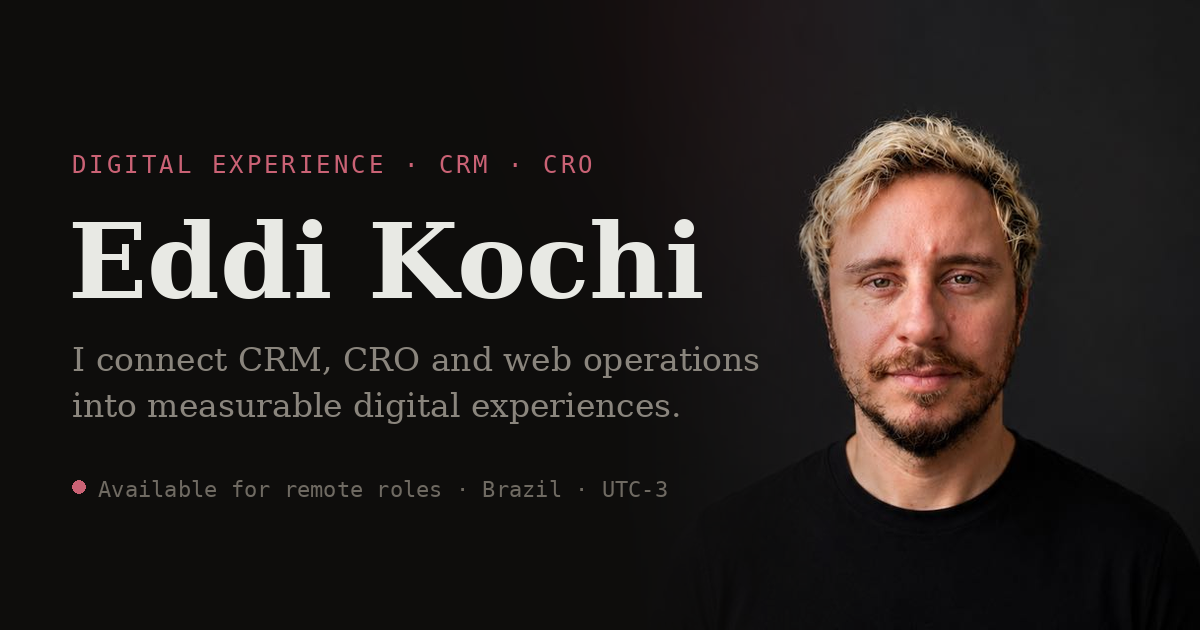
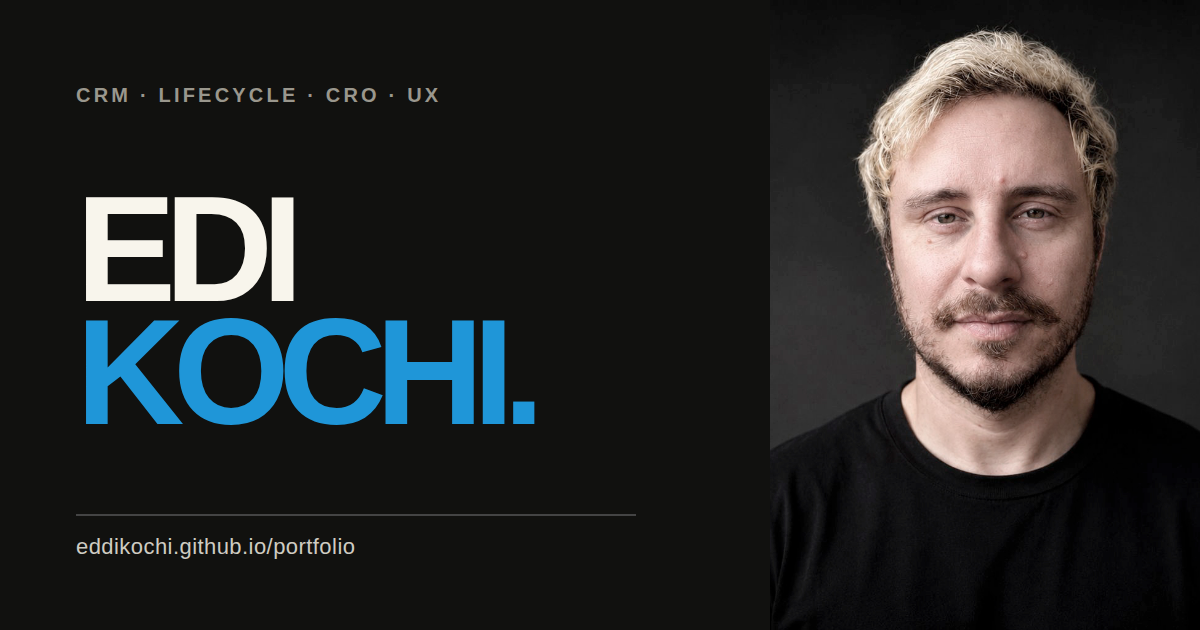
Nome: 'Edi Kochi' (um d) em todo o site e nova og-image no estilo V4
- Cabeçalho, títulos, metadados, rodapé, 404 e redirecionamentos (PT+EN)
- URLs e e-mail (eddikochi / eddimaicon) mantidos
- og-image refeita: fundo escuro, tipografia da V4, sem frase em inglês
- v1/ (snapshot arquivado) não alterado

diff --git a/index.html b/index.html
@@ -1,7 +1,7 @@
 <!doctype html>
 <html lang="pt-BR"><head><meta charset="utf-8"><meta name="viewport" content="width=device-width,initial-scale=1">
-<title>Eddi Kochi — Experiência Digital, CRM &amp; CRO</title>
-<meta name="description" content="CRM, lifecycle e CRO: portfólio de Eddi Kochi com réguas multicanal, testes A/B, conteúdo com IA e experiências digitais orientadas por dados.">
+<title>Edi Kochi — Experiência Digital, CRM &amp; CRO</title>
+<meta name="description" content="CRM, lifecycle e CRO: portfólio de Edi Kochi com réguas multicanal, testes A/B, conteúdo com IA e experiências digitais orientadas por dados.">
 <link rel="icon" href="favicon.svg" type="image/svg+xml">
 <link rel="manifest" href="site.webmanifest">
 <meta name="theme-color" content="#f2f0e8">
@@ -10,17 +10,17 @@
 <link rel="alternate" hreflang="en" href="https://eddikochi.github.io/portfolio/en/">
 <link rel="alternate" hreflang="x-default" href="https://eddikochi.github.io/portfolio/en/">
 <meta property="og:type" content="website">
-<meta property="og:site_name" content="Eddi Kochi">
+<meta property="og:site_name" content="Edi Kochi">
 <meta property="og:locale" content="pt_BR">
-<meta property="og:title" content="Eddi Kochi — Experiência Digital, CRM & CRO">
-<meta property="og:description" content="CRM, lifecycle e CRO: portfólio de Eddi Kochi com réguas multicanal, testes A/B, conteúdo com IA e experiências digitais orientadas por dados.">
+<meta property="og:title" content="Edi Kochi — Experiência Digital, CRM & CRO">
+<meta property="og:description" content="CRM, lifecycle e CRO: portfólio de Edi Kochi com réguas multicanal, testes A/B, conteúdo com IA e experiências digitais orientadas por dados.">
 <meta property="og:url" content="https://eddikochi.github.io/portfolio/">
 <meta property="og:image" content="https://eddikochi.github.io/portfolio/img/og-image.png">
 <meta property="og:image:width" content="1200">
 <meta property="og:image:height" content="630">
 <meta name="twitter:card" content="summary_large_image">
-<meta name="twitter:title" content="Eddi Kochi — Experiência Digital, CRM & CRO">
-<meta name="twitter:description" content="CRM, lifecycle e CRO: portfólio de Eddi Kochi com réguas multicanal, testes A/B, conteúdo com IA e experiências digitais orientadas por dados.">
+<meta name="twitter:title" content="Edi Kochi — Experiência Digital, CRM & CRO">
+<meta name="twitter:description" content="CRM, lifecycle e CRO: portfólio de Edi Kochi com réguas multicanal, testes A/B, conteúdo com IA e experiências digitais orientadas por dados.">
 <meta name="twitter:image" content="https://eddikochi.github.io/portfolio/img/og-image.png">
 <link rel="stylesheet" href="v4.css">
 
@@ -30,7 +30,7 @@
 <header><nav class="w">
   <a class="brand" href="#top">
     <span class="brand-mark" aria-hidden="true"><svg viewBox="0 0 24 24" fill="none"><g stroke="currentColor" stroke-width="1.2" stroke-opacity=".55"><line x1="5" y1="7" x2="12" y2="12"/><line x1="12" y1="12" x2="9" y2="19"/><line x1="12" y1="12" x2="19" y2="9"/><line x1="19" y1="9" x2="18" y2="18"/></g><circle cx="5" cy="7" r="2" fill="currentColor"/><circle cx="12" cy="12" r="2.4" fill="currentColor"/><circle cx="9" cy="19" r="1.8" fill="currentColor" fill-opacity=".82"/><circle cx="19" cy="9" r="2" fill="currentColor" fill-opacity=".82"/><circle cx="18" cy="18" r="1.6" fill="currentColor" fill-opacity=".7"/></svg></span>
-    <span class="brand-text">EDDI KOCHI</span>
+    <span class="brand-text">EDI KOCHI</span>
   </a>
   <div class="links"><a href="#work">Trabalhos</a><a href="#what">Expertise</a><a href="#about">Sobre</a></div>
   <div class="lang" role="group" aria-label="Idioma / Language"><a class="active" href="#top" aria-current="true">PT</a><a href="en/index.html">EN</a></div>
@@ -87,21 +87,21 @@
 <section class="sec w"><div class="head"><div class="ey">Como trabalho</div><div><h2>Do problema<br>à evolução.</h2><p class="muted">Um processo repetível para transformar sintomas difusos em decisões, entregas e aprendizado.</p></div></div><div class="process">
 <div class="step"><strong data-title="Diagnosticar">Diagnosticar</strong><p class="muted">Entender o problema real por trás do sintoma.</p></div><div class="step"><strong data-title="Estruturar">Estruturar</strong><p class="muted">Organizar hipóteses, dados e prioridades.</p></div><div class="step"><strong data-title="Desenhar">Desenhar</strong><p class="muted">Transformar evidência em solução.</p></div><div class="step"><strong data-title="Documentar">Documentar</strong><p class="muted">Tornar decisões e padrões reproduzíveis.</p></div><div class="step"><strong data-title="Validar">Validar</strong><p class="muted">Testar antes de escalar.</p></div><div class="step"><strong data-title="Evoluir">Evoluir</strong><p class="muted">Medir, aprender e melhorar.</p></div></div></section>
 
-<section class="sec w" id="about"><div class="about"><div class="portrait" role="img" aria-label="Eddi Kochi"></div><div><div class="ey">Sobre</div><h2>Designer de sistemas digitais, não apenas de telas.</h2><p>Minha trajetória começou no design e passou por produção editorial, QA, liderança de UX, experiência web e CRM. Essa combinação me fez olhar para produtos como sistemas: interface, conteúdo, comportamento, operação e mensuração precisam conversar.</p><p class="muted">Hoje atuo principalmente em UX, CRM, CRO e produtos digitais, conectando diagnóstico, execução e governança.</p><div class="actions"><a class="btn fill" href="CV_Edi_2026.pdf" target="_blank" rel="noopener">Currículo ↗</a><a class="btn fill" href="https://www.linkedin.com/in/edi-maicon-kochi-427625347/" target="_blank" rel="noopener">LinkedIn ↗</a><a class="btn fill" href="mailto:eddimaicon@gmail.com">Email ↗</a></div></div></div></section>
+<section class="sec w" id="about"><div class="about"><div class="portrait" role="img" aria-label="Edi Kochi"></div><div><div class="ey">Sobre</div><h2>Designer de sistemas digitais, não apenas de telas.</h2><p>Minha trajetória começou no design e passou por produção editorial, QA, liderança de UX, experiência web e CRM. Essa combinação me fez olhar para produtos como sistemas: interface, conteúdo, comportamento, operação e mensuração precisam conversar.</p><p class="muted">Hoje atuo principalmente em UX, CRM, CRO e produtos digitais, conectando diagnóstico, execução e governança.</p><div class="actions"><a class="btn fill" href="CV_Edi_2026.pdf" target="_blank" rel="noopener">Currículo ↗</a><a class="btn fill" href="https://www.linkedin.com/in/edi-maicon-kochi-427625347/" target="_blank" rel="noopener">LinkedIn ↗</a><a class="btn fill" href="mailto:eddimaicon@gmail.com">Email ↗</a></div></div></div></section>
 
 <section class="sec cta" id="contact"><div class="w"><div class="ey">Aberto a oportunidades & projetos independentes selecionados</div><h2>VAMOS<br>CONSTRUIR<br>ALGO <span class="accent">ÚTIL.</span></h2><p>Aberto a oportunidades em UX, CRM, CRO, Produto e Growth — como parte de um time ou em projetos independentes selecionados.</p><div class="actions"><a class="btn" href="CV_Edi_2026.pdf" target="_blank" rel="noopener">Currículo ↗</a><a class="btn" href="https://wa.me/5551991318945?text=Ol%C3%A1%2C%20Eddi%21%20Vim%20pelo%20seu%20portf%C3%B3lio." target="_blank" rel="noopener">WhatsApp ↗</a></div></div></section>
 </main><footer id="homeFooter" class="site"><div class="w">
   <div class="footer-grid">
     <div class="footer-brand-block">
       <span class="footer-mark" aria-hidden="true"><svg viewBox="0 0 24 24" fill="none"><g stroke="#ffffff" stroke-width="1.2" stroke-opacity=".6"><line x1="5" y1="7" x2="12" y2="12"/><line x1="12" y1="12" x2="9" y2="19"/><line x1="12" y1="12" x2="19" y2="9"/><line x1="19" y1="9" x2="18" y2="18"/></g><circle cx="5" cy="7" r="2" fill="#ffffff"/><circle cx="12" cy="12" r="2.4" fill="#ffffff"/><circle cx="9" cy="19" r="1.8" fill="#ffffff" fill-opacity=".82"/><circle cx="19" cy="9" r="2" fill="#ffffff" fill-opacity=".82"/><circle cx="18" cy="18" r="1.6" fill="#ffffff" fill-opacity=".7"/></svg></span>
-      <span class="footer-brand-text"><span class="footer-brand">Eddi Kochi</span><span class="footer-sub">Experiência Digital · CRM · CRO</span></span>
+      <span class="footer-brand-text"><span class="footer-brand">Edi Kochi</span><span class="footer-sub">Experiência Digital · CRM · CRO</span></span>
     </div>
     <div class="footer-links">
       <a href="https://www.linkedin.com/in/edi-maicon-kochi-427625347/" target="_blank" rel="noopener" aria-label="LinkedIn"><svg viewBox="0 0 24 24" fill="none" stroke="currentColor" stroke-width="2" stroke-linecap="round" stroke-linejoin="round" aria-hidden="true"><circle cx="5" cy="4.4" r="1.4"/><line x1="5" y1="9" x2="5" y2="19"/><path d="M10 19V9"/><path d="M10 12.5a4.5 4.5 0 0 1 9 0V19"/></svg></a>
       <a href="CV_Edi_2026.pdf" target="_blank" rel="noopener" aria-label="Currículo"><svg viewBox="0 0 24 24" fill="none" stroke="currentColor" stroke-width="2" stroke-linecap="round" stroke-linejoin="round" aria-hidden="true"><path d="M12 3v12"/><path d="m7 10 5 5 5-5"/><path d="M4 17v2a2 2 0 0 0 2 2h12a2 2 0 0 0 2-2v-2"/></svg></a>
     </div>
   </div>
-  <p class="footer-note">© 2026 Eddi Kochi · Todos os direitos reservados</p>
+  <p class="footer-note">© 2026 Edi Kochi · Todos os direitos reservados</p>
 </div></footer>
 
 

diff --git a/en/index.html b/en/index.html
@@ -1,7 +1,7 @@
 <!doctype html>
 <html lang="en"><head><meta charset="utf-8"><meta name="viewport" content="width=device-width,initial-scale=1">
-<title>Eddi Kochi — Digital Experience, CRM &amp; CRO</title>
-<meta name="description" content="Eddi Kochi's portfolio — digital systems designer across UX, CRM, CRO, product and governance. Evidence-driven diagnosis, execution and operation connected: PDP, go-live/AEM and CRM lifecycle cases.">
+<title>Edi Kochi — Digital Experience, CRM &amp; CRO</title>
+<meta name="description" content="Edi Kochi's portfolio — digital systems designer across UX, CRM, CRO, product and governance. Evidence-driven diagnosis, execution and operation connected: PDP, go-live/AEM and CRM lifecycle cases.">
 <link rel="icon" href="../favicon.svg" type="image/svg+xml">
 <link rel="manifest" href="../site.webmanifest">
 <meta name="theme-color" content="#f2f0e8">
@@ -10,16 +10,16 @@
 <link rel="alternate" hreflang="en" href="https://eddikochi.github.io/portfolio/en/">
 <link rel="alternate" hreflang="x-default" href="https://eddikochi.github.io/portfolio/en/">
 <meta property="og:type" content="website">
-<meta property="og:site_name" content="Eddi Kochi">
+<meta property="og:site_name" content="Edi Kochi">
 <meta property="og:locale" content="en_US">
-<meta property="og:title" content="Eddi Kochi — Digital Experience, CRM & CRO">
+<meta property="og:title" content="Edi Kochi — Digital Experience, CRM & CRO">
 <meta property="og:description" content="Digital systems designer across UX, CRM, CRO, product and governance. Evidence-driven diagnosis, execution and operation connected.">
 <meta property="og:url" content="https://eddikochi.github.io/portfolio/en/">
 <meta property="og:image" content="https://eddikochi.github.io/portfolio/img/og-image.png">
 <meta property="og:image:width" content="1200">
 <meta property="og:image:height" content="630">
 <meta name="twitter:card" content="summary_large_image">
-<meta name="twitter:title" content="Eddi Kochi — Digital Experience, CRM & CRO">
+<meta name="twitter:title" content="Edi Kochi — Digital Experience, CRM & CRO">
 <meta name="twitter:description" content="Digital systems designer across UX, CRM, CRO, product and governance.">
 <meta name="twitter:image" content="https://eddikochi.github.io/portfolio/img/og-image.png">
 <link rel="stylesheet" href="../v4.css">
@@ -30,7 +30,7 @@
 <header><nav class="w">
   <a class="brand" href="#top">
     <span class="brand-mark" aria-hidden="true"><svg viewBox="0 0 24 24" fill="none"><g stroke="currentColor" stroke-width="1.2" stroke-opacity=".55"><line x1="5" y1="7" x2="12" y2="12"/><line x1="12" y1="12" x2="9" y2="19"/><line x1="12" y1="12" x2="19" y2="9"/><line x1="19" y1="9" x2="18" y2="18"/></g><circle cx="5" cy="7" r="2" fill="currentColor"/><circle cx="12" cy="12" r="2.4" fill="currentColor"/><circle cx="9" cy="19" r="1.8" fill="currentColor" fill-opacity=".82"/><circle cx="19" cy="9" r="2" fill="currentColor" fill-opacity=".82"/><circle cx="18" cy="18" r="1.6" fill="currentColor" fill-opacity=".7"/></svg></span>
-    <span class="brand-text">EDDI KOCHI</span>
+    <span class="brand-text">EDI KOCHI</span>
   </a>
   <div class="links"><a href="#work">Work</a><a href="#what">Expertise</a><a href="#about">About</a></div>
   <div class="lang" role="group" aria-label="Idioma / Language"><a href="../index.html">PT</a><a class="active" href="#top" aria-current="true">EN</a></div>
@@ -85,21 +85,21 @@
 <section class="sec w"><div class="head"><div class="ey">How I work</div><div><h2>From problem<br>to evolution.</h2><p class="muted">A repeatable process for turning vague symptoms into decisions, deliverables and learning.</p></div></div><div class="process">
 <div class="step"><strong data-title="Diagnose">Diagnose</strong><p class="muted">Understand the real problem behind the symptom.</p></div><div class="step"><strong data-title="Structure">Structure</strong><p class="muted">Organize hypotheses, data and priorities.</p></div><div class="step"><strong data-title="Design">Design</strong><p class="muted">Turn evidence into a solution.</p></div><div class="step"><strong data-title="Document">Document</strong><p class="muted">Make decisions and patterns reproducible.</p></div><div class="step"><strong data-title="Validate">Validate</strong><p class="muted">Test before scaling.</p></div><div class="step"><strong data-title="Evolve">Evolve</strong><p class="muted">Measure, learn and improve.</p></div></div></section>
 
-<section class="sec w" id="about"><div class="about"><div class="portrait" role="img" aria-label="Eddi Kochi"></div><div><div class="ey">About</div><h2>A designer of digital systems, not just screens.</h2><p>My path started in design and moved through editorial production, QA, UX leadership, web experience and CRM. That combination made me look at products as systems: interface, content, behavior, operation and measurement need to work together.</p><p class="muted">Today I work mainly in UX, CRM, CRO and digital products, connecting diagnosis, execution and governance.</p><div class="actions"><a class="btn fill" href="../CV_Edi_2026_EN.pdf" target="_blank" rel="noopener">Résumé ↗</a><a class="btn fill" href="https://www.linkedin.com/in/edi-maicon-kochi-427625347/" target="_blank" rel="noopener">LinkedIn ↗</a><a class="btn fill" href="mailto:eddimaicon@gmail.com">Email ↗</a></div></div></div></section>
+<section class="sec w" id="about"><div class="about"><div class="portrait" role="img" aria-label="Edi Kochi"></div><div><div class="ey">About</div><h2>A designer of digital systems, not just screens.</h2><p>My path started in design and moved through editorial production, QA, UX leadership, web experience and CRM. That combination made me look at products as systems: interface, content, behavior, operation and measurement need to work together.</p><p class="muted">Today I work mainly in UX, CRM, CRO and digital products, connecting diagnosis, execution and governance.</p><div class="actions"><a class="btn fill" href="../CV_Edi_2026_EN.pdf" target="_blank" rel="noopener">Résumé ↗</a><a class="btn fill" href="https://www.linkedin.com/in/edi-maicon-kochi-427625347/" target="_blank" rel="noopener">LinkedIn ↗</a><a class="btn fill" href="mailto:eddimaicon@gmail.com">Email ↗</a></div></div></div></section>
 
 <section class="sec cta" id="contact"><div class="w"><div class="ey">Open to opportunities & selected independent projects</div><h2>LET'S<br>BUILD<br>SOMETHING <span class="accent">USEFUL.</span></h2><p>Open to opportunities in UX, CRM, CRO, Product and Growth — as part of a team or in selected independent projects.</p><div class="actions"><a class="btn" href="../CV_Edi_2026_EN.pdf" target="_blank" rel="noopener">Résumé ↗</a><a class="btn" href="https://calendar.app.google/U2k5QKudnDxRHKhB7" target="_blank" rel="noopener noreferrer">Schedule a call ↗</a></div></div></section>
 </main><footer id="homeFooter" class="site"><div class="w">
   <div class="footer-grid">
     <div class="footer-brand-block">
       <span class="footer-mark" aria-hidden="true"><svg viewBox="0 0 24 24" fill="none"><g stroke="#ffffff" stroke-width="1.2" stroke-opacity=".6"><line x1="5" y1="7" x2="12" y2="12"/><line x1="12" y1="12" x2="9" y2="19"/><line x1="12" y1="12" x2="19" y2="9"/><line x1="19" y1="9" x2="18" y2="18"/></g><circle cx="5" cy="7" r="2" fill="#ffffff"/><circle cx="12" cy="12" r="2.4" fill="#ffffff"/><circle cx="9" cy="19" r="1.8" fill="#ffffff" fill-opacity=".82"/><circle cx="19" cy="9" r="2" fill="#ffffff" fill-opacity=".82"/><circle cx="18" cy="18" r="1.6" fill="#ffffff" fill-opacity=".7"/></svg></span>
-      <span class="footer-brand-text"><span class="footer-brand">Eddi Kochi</span><span class="footer-sub">Digital Experience · CRM · CRO</span></span>
+      <span class="footer-brand-text"><span class="footer-brand">Edi Kochi</span><span class="footer-sub">Digital Experience · CRM · CRO</span></span>
     </div>
     <div class="footer-links">
       <a href="https://www.linkedin.com/in/edi-maicon-kochi-427625347/" target="_blank" rel="noopener" aria-label="LinkedIn"><svg viewBox="0 0 24 24" fill="none" stroke="currentColor" stroke-width="2" stroke-linecap="round" stroke-linejoin="round" aria-hidden="true"><circle cx="5" cy="4.4" r="1.4"/><line x1="5" y1="9" x2="5" y2="19"/><path d="M10 19V9"/><path d="M10 12.5a4.5 4.5 0 0 1 9 0V19"/></svg></a>
       <a href="../CV_Edi_2026_EN.pdf" target="_blank" rel="noopener" aria-label="Résumé"><svg viewBox="0 0 24 24" fill="none" stroke="currentColor" stroke-width="2" stroke-linecap="round" stroke-linejoin="round" aria-hidden="true"><path d="M12 3v12"/><path d="m7 10 5 5 5-5"/><path d="M4 17v2a2 2 0 0 0 2 2h12a2 2 0 0 0 2-2v-2"/></svg></a>
     </div>
   </div>
-  <p class="footer-note">© 2026 Eddi Kochi · All rights reserved</p>
+  <p class="footer-note">© 2026 Edi Kochi · All rights reserved</p>
 </div></footer>
 
 

diff --git a/404.html b/404.html
@@ -1,6 +1,6 @@
 <!doctype html>
 <html lang="pt-BR"><head><meta charset="utf-8"><meta name="viewport" content="width=device-width,initial-scale=1">
-<title>Página não encontrada — Eddi Kochi</title>
+<title>Página não encontrada — Edi Kochi</title>
 <meta name="robots" content="noindex">
 <link rel="icon" href="favicon.svg" type="image/svg+xml">
 <meta name="theme-color" content="#f2f0e8">
@@ -9,7 +9,7 @@
 <header><nav class="w">
   <a class="brand" href="index.html">
     <span class="brand-mark" aria-hidden="true"><svg viewBox="0 0 24 24" fill="none"><g stroke="currentColor" stroke-width="1.2" stroke-opacity=".55"><line x1="5" y1="7" x2="12" y2="12"/><line x1="12" y1="12" x2="9" y2="19"/><line x1="12" y1="12" x2="19" y2="9"/><line x1="19" y1="9" x2="18" y2="18"/></g><circle cx="5" cy="7" r="2" fill="currentColor"/><circle cx="12" cy="12" r="2.4" fill="currentColor"/><circle cx="9" cy="19" r="1.8" fill="currentColor" fill-opacity=".82"/><circle cx="19" cy="9" r="2" fill="currentColor" fill-opacity=".82"/><circle cx="18" cy="18" r="1.6" fill="currentColor" fill-opacity=".7"/></svg></span>
-    <span class="brand-text">EDDI KOCHI</span>
+    <span class="brand-text">EDI KOCHI</span>
   </a>
   <div class="links"><a href="index.html#work">Trabalhos</a><a href="index.html#about">Sobre</a><a href="index.html#contact">Contato</a></div>
   <div class="lang" role="group" aria-label="Idioma / Language"><a class="active" href="index.html">PT</a><a href="en/404.html">EN</a></div>
@@ -24,13 +24,13 @@
   <div class="footer-grid">
     <div class="footer-brand-block">
       <span class="footer-mark" aria-hidden="true"><svg viewBox="0 0 24 24" fill="none"><g stroke="#ffffff" stroke-width="1.2" stroke-opacity=".6"><line x1="5" y1="7" x2="12" y2="12"/><line x1="12" y1="12" x2="9" y2="19"/><line x1="12" y1="12" x2="19" y2="9"/><line x1="19" y1="9" x2="18" y2="18"/></g><circle cx="5" cy="7" r="2" fill="#ffffff"/><circle cx="12" cy="12" r="2.4" fill="#ffffff"/><circle cx="9" cy="19" r="1.8" fill="#ffffff" fill-opacity=".82"/><circle cx="19" cy="9" r="2" fill="#ffffff" fill-opacity=".82"/><circle cx="18" cy="18" r="1.6" fill="#ffffff" fill-opacity=".7"/></svg></span>
-      <span class="footer-brand-text"><span class="footer-brand">Eddi Kochi</span><span class="footer-sub">Experiência Digital · CRM · CRO</span></span>
+      <span class="footer-brand-text"><span class="footer-brand">Edi Kochi</span><span class="footer-sub">Experiência Digital · CRM · CRO</span></span>
     </div>
     <div class="footer-links">
       <a href="https://www.linkedin.com/in/edi-maicon-kochi-427625347/" target="_blank" rel="noopener" aria-label="LinkedIn"><svg viewBox="0 0 24 24" fill="none" stroke="currentColor" stroke-width="2" stroke-linecap="round" stroke-linejoin="round" aria-hidden="true"><circle cx="5" cy="4.4" r="1.4"/><line x1="5" y1="9" x2="5" y2="19"/><path d="M10 19V9"/><path d="M10 12.5a4.5 4.5 0 0 1 9 0V19"/></svg></a>
       <a href="mailto:eddimaicon@gmail.com" aria-label="E-mail"><svg viewBox="0 0 24 24" fill="none" stroke="currentColor" stroke-width="2" stroke-linecap="round" stroke-linejoin="round" aria-hidden="true"><rect x="2" y="4" width="20" height="16" rx="2"/><path d="m22 7-10 6L2 7"/></svg></a>
     </div>
   </div>
-  <p class="footer-note">© 2026 Eddi Kochi · Todos os direitos reservados</p>
+  <p class="footer-note">© 2026 Edi Kochi · Todos os direitos reservados</p>
 </div></footer>
 </body></html>

diff --git a/en/404.html b/en/404.html
@@ -1,6 +1,6 @@
 <!doctype html>
 <html lang="en"><head><meta charset="utf-8"><meta name="viewport" content="width=device-width,initial-scale=1">
-<title>Page not found — Eddi Kochi</title>
+<title>Page not found — Edi Kochi</title>
 <meta name="robots" content="noindex">
 <link rel="icon" href="../favicon.svg" type="image/svg+xml">
 <meta name="theme-color" content="#f2f0e8">
@@ -9,7 +9,7 @@
 <header><nav class="w">
   <a class="brand" href="index.html">
     <span class="brand-mark" aria-hidden="true"><svg viewBox="0 0 24 24" fill="none"><g stroke="currentColor" stroke-width="1.2" stroke-opacity=".55"><line x1="5" y1="7" x2="12" y2="12"/><line x1="12" y1="12" x2="9" y2="19"/><line x1="12" y1="12" x2="19" y2="9"/><line x1="19" y1="9" x2="18" y2="18"/></g><circle cx="5" cy="7" r="2" fill="currentColor"/><circle cx="12" cy="12" r="2.4" fill="currentColor"/><circle cx="9" cy="19" r="1.8" fill="currentColor" fill-opacity=".82"/><circle cx="19" cy="9" r="2" fill="currentColor" fill-opacity=".82"/><circle cx="18" cy="18" r="1.6" fill="currentColor" fill-opacity=".7"/></svg></span>
-    <span class="brand-text">EDDI KOCHI</span>
+    <span class="brand-text">EDI KOCHI</span>
   </a>
   <div class="links"><a href="index.html#work">Work</a><a href="index.html#about">About</a><a href="index.html#contact">Contact</a></div>
   <div class="lang" role="group" aria-label="Idioma / Language"><a href="../404.html">PT</a><a class="active" href="index.html">EN</a></div>
@@ -24,13 +24,13 @@
   <div class="footer-grid">
     <div class="footer-brand-block">
       <span class="footer-mark" aria-hidden="true"><svg viewBox="0 0 24 24" fill="none"><g stroke="#ffffff" stroke-width="1.2" stroke-opacity=".6"><line x1="5" y1="7" x2="12" y2="12"/><line x1="12" y1="12" x2="9" y2="19"/><line x1="12" y1="12" x2="19" y2="9"/><line x1="19" y1="9" x2="18" y2="18"/></g><circle cx="5" cy="7" r="2" fill="#ffffff"/><circle cx="12" cy="12" r="2.4" fill="#ffffff"/><circle cx="9" cy="19" r="1.8" fill="#ffffff" fill-opacity=".82"/><circle cx="19" cy="9" r="2" fill="#ffffff" fill-opacity=".82"/><circle cx="18" cy="18" r="1.6" fill="#ffffff" fill-opacity=".7"/></svg></span>
-      <span class="footer-brand-text"><span class="footer-brand">Eddi Kochi</span><span class="footer-sub">Digital Experience · CRM · CRO</span></span>
+      <span class="footer-brand-text"><span class="footer-brand">Edi Kochi</span><span class="footer-sub">Digital Experience · CRM · CRO</span></span>
     </div>
     <div class="footer-links">
       <a href="https://www.linkedin.com/in/edi-maicon-kochi-427625347/" target="_blank" rel="noopener" aria-label="LinkedIn"><svg viewBox="0 0 24 24" fill="none" stroke="currentColor" stroke-width="2" stroke-linecap="round" stroke-linejoin="round" aria-hidden="true"><circle cx="5" cy="4.4" r="1.4"/><line x1="5" y1="9" x2="5" y2="19"/><path d="M10 19V9"/><path d="M10 12.5a4.5 4.5 0 0 1 9 0V19"/></svg></a>
       <a href="mailto:eddimaicon@gmail.com" aria-label="Email"><svg viewBox="0 0 24 24" fill="none" stroke="currentColor" stroke-width="2" stroke-linecap="round" stroke-linejoin="round" aria-hidden="true"><rect x="2" y="4" width="20" height="16" rx="2"/><path d="m22 7-10 6L2 7"/></svg></a>
     </div>
   </div>
-  <p class="footer-note">© 2026 Eddi Kochi · All rights reserved</p>
+  <p class="footer-note">© 2026 Edi Kochi · All rights reserved</p>
 </div></footer>
 </body></html>

diff --git a/en/work/ibcmed/index.html b/en/work/ibcmed/index.html
@@ -1,6 +1,6 @@
 <!doctype html>
 <html lang="en"><head><meta charset="utf-8"><meta name="viewport" content="width=device-width,initial-scale=1">
-<title>Go-live — governing a WordPress → AEM migration · Eddi Kochi</title>
+<title>Go-live — governing a WordPress → AEM migration · Edi Kochi</title>
 <meta name="description" content="The bridge between marketing, product and technology during the go-live of a medical postgraduate website: handoff, QA and processes built from scratch.">
 <link rel="icon" href="../../../favicon.svg" type="image/svg+xml">
 <meta name="theme-color" content="#11110f">
@@ -8,7 +8,7 @@
 <link rel="alternate" hreflang="pt-BR" href="https://eddikochi.github.io/portfolio/work/ibcmed/">
 <link rel="alternate" hreflang="en" href="https://eddikochi.github.io/portfolio/en/work/ibcmed/">
 <meta property="og:type" content="article">
-<meta property="og:title" content="Go-live — governing a WordPress → AEM migration · Eddi Kochi">
+<meta property="og:title" content="Go-live — governing a WordPress → AEM migration · Edi Kochi">
 <meta property="og:description" content="The bridge between marketing, product and technology during the go-live of a medical postgraduate website: handoff, QA and processes built from scratch.">
 <meta property="og:url" content="https://eddikochi.github.io/portfolio/en/work/ibcmed/">
 <meta property="og:image" content="https://eddikochi.github.io/portfolio/img/og-image.png">

diff --git a/work/ibcmed/index.html b/work/ibcmed/index.html
@@ -1,6 +1,6 @@
 <!doctype html>
 <html lang="pt-BR"><head><meta charset="utf-8"><meta name="viewport" content="width=device-width,initial-scale=1">
-<title>Go-live — governança de migração WordPress → AEM · Eddi Kochi</title>
+<title>Go-live — governança de migração WordPress → AEM · Edi Kochi</title>
 <meta name="description" content="A ponte entre marketing, produto e tecnologia no go-live de um site de pós-graduação médica: handoff, QA e processos criados do zero.">
 <link rel="icon" href="../../favicon.svg" type="image/svg+xml">
 <meta name="theme-color" content="#11110f">
@@ -8,7 +8,7 @@
 <link rel="alternate" hreflang="pt-BR" href="https://eddikochi.github.io/portfolio/work/ibcmed/">
 <link rel="alternate" hreflang="en" href="https://eddikochi.github.io/portfolio/en/work/ibcmed/">
 <meta property="og:type" content="article">
-<meta property="og:title" content="Go-live — governança de migração WordPress → AEM · Eddi Kochi">
+<meta property="og:title" content="Go-live — governança de migração WordPress → AEM · Edi Kochi">
 <meta property="og:description" content="A ponte entre marketing, produto e tecnologia no go-live de um site de pós-graduação médica: handoff, QA e processos criados do zero.">
 <meta property="og:url" content="https://eddikochi.github.io/portfolio/work/ibcmed/">
 <meta property="og:image" content="https://eddikochi.github.io/portfolio/img/og-image.png">

diff --git a/work/crm/index.html b/work/crm/index.html
@@ -1,6 +1,6 @@
 <!doctype html>
 <html lang="pt-BR"><head><meta charset="utf-8"><meta name="viewport" content="width=device-width,initial-scale=1">
-<title>CRM — de disparos avulsos a jornadas comportamentais · Eddi Kochi</title>
+<title>CRM — de disparos avulsos a jornadas comportamentais · Edi Kochi</title>
 <meta name="description" content="Jornadas de e-mail e CRM multicanal no Salesforce: régua que reage ao comportamento do lead, mensurável via dashboard.">
 <link rel="icon" href="../../favicon.svg" type="image/svg+xml">
 <meta name="theme-color" content="#11110f">
@@ -8,7 +8,7 @@
 <link rel="alternate" hreflang="pt-BR" href="https://eddikochi.github.io/portfolio/work/crm/">
 <link rel="alternate" hreflang="en" href="https://eddikochi.github.io/portfolio/en/work/crm/">
 <meta property="og:type" content="article">
-<meta property="og:title" content="CRM — de disparos avulsos a jornadas comportamentais · Eddi Kochi">
+<meta property="og:title" content="CRM — de disparos avulsos a jornadas comportamentais · Edi Kochi">
 <meta property="og:description" content="Jornadas de e-mail e CRM multicanal no Salesforce: régua que reage ao comportamento do lead, mensurável via dashboard.">
 <meta property="og:url" content="https://eddikochi.github.io/portfolio/work/crm/">
 <meta property="og:image" content="https://eddikochi.github.io/portfolio/img/og-image.png">

diff --git a/en/work/crm/index.html b/en/work/crm/index.html
@@ -1,6 +1,6 @@
 <!doctype html>
 <html lang="en"><head><meta charset="utf-8"><meta name="viewport" content="width=device-width,initial-scale=1">
-<title>CRM — from one-off sends to behavioral journeys · Eddi Kochi</title>
+<title>CRM — from one-off sends to behavioral journeys · Edi Kochi</title>
 <meta name="description" content="Email journeys and multichannel CRM on Salesforce: a cadence that reacts to lead behavior, measurable via dashboard.">
 <link rel="icon" href="../../../favicon.svg" type="image/svg+xml">
 <meta name="theme-color" content="#11110f">
@@ -8,7 +8,7 @@
 <link rel="alternate" hreflang="pt-BR" href="https://eddikochi.github.io/portfolio/work/crm/">
 <link rel="alternate" hreflang="en" href="https://eddikochi.github.io/portfolio/en/work/crm/">
 <meta property="og:type" content="article">
-<meta property="og:title" content="CRM — from one-off sends to behavioral journeys · Eddi Kochi">
+<meta property="og:title" content="CRM — from one-off sends to behavioral journeys · Edi Kochi">
 <meta property="og:description" content="Email journeys and multichannel CRM on Salesforce: a cadence that reacts to lead behavior, measurable via dashboard.">
 <meta property="og:url" content="https://eddikochi.github.io/portfolio/en/work/crm/">
 <meta property="og:image" content="https://eddikochi.github.io/portfolio/img/og-image.png">

diff --git a/en/work/pdp/index.html b/en/work/pdp/index.html
@@ -1,6 +1,6 @@
 <!doctype html>
 <html lang="en"><head><meta charset="utf-8"><meta name="viewport" content="width=device-width,initial-scale=1">
-<title>New PDP — the problem wasn't the CTA · Eddi Kochi</title>
+<title>New PDP — the problem wasn't the CTA · Edi Kochi</title>
 <meta name="description" content="Behavioral diagnosis via Microsoft Clarity and a PDP redesign at IBCMED, from discovery to handoff with product and technology.">
 <link rel="icon" href="../../../favicon.svg" type="image/svg+xml">
 <meta name="theme-color" content="#11110f">
@@ -8,7 +8,7 @@
 <link rel="alternate" hreflang="pt-BR" href="https://eddikochi.github.io/portfolio/work/pdp/">
 <link rel="alternate" hreflang="en" href="https://eddikochi.github.io/portfolio/en/work/pdp/">
 <meta property="og:type" content="article">
-<meta property="og:title" content="New PDP — the problem wasn't the CTA · Eddi Kochi">
+<meta property="og:title" content="New PDP — the problem wasn't the CTA · Edi Kochi">
 <meta property="og:description" content="Behavioral diagnosis via Microsoft Clarity and a PDP redesign at IBCMED, from discovery to handoff with product and technology.">
 <meta property="og:url" content="https://eddikochi.github.io/portfolio/en/work/pdp/">
 <meta property="og:image" content="https://eddikochi.github.io/portfolio/img/og-image.png">

diff --git a/work/pdp/index.html b/work/pdp/index.html
@@ -1,6 +1,6 @@
 <!doctype html>
 <html lang="pt-BR"><head><meta charset="utf-8"><meta name="viewport" content="width=device-width,initial-scale=1">
-<title>Nova PDP — o problema não era o CTA · Eddi Kochi</title>
+<title>Nova PDP — o problema não era o CTA · Edi Kochi</title>
 <meta name="description" content="Diagnóstico comportamental via Microsoft Clarity e redesign da PDP do IBCMED, do discovery ao handoff com produto e tecnologia.">
 <link rel="icon" href="../../favicon.svg" type="image/svg+xml">
 <meta name="theme-color" content="#11110f">
@@ -8,7 +8,7 @@
 <link rel="alternate" hreflang="pt-BR" href="https://eddikochi.github.io/portfolio/work/pdp/">
 <link rel="alternate" hreflang="en" href="https://eddikochi.github.io/portfolio/en/work/pdp/">
 <meta property="og:type" content="article">
-<meta property="og:title" content="Nova PDP — o problema não era o CTA · Eddi Kochi">
+<meta property="og:title" content="Nova PDP — o problema não era o CTA · Edi Kochi">
 <meta property="og:description" content="Diagnóstico comportamental via Microsoft Clarity e redesign da PDP do IBCMED, do discovery ao handoff com produto e tecnologia.">
 <meta property="og:url" content="https://eddikochi.github.io/portfolio/work/pdp/">
 <meta property="og:image" content="https://eddikochi.github.io/portfolio/img/og-image.png">

diff --git a/work/crm-varejo/index.html b/work/crm-varejo/index.html
@@ -1,12 +1,12 @@
 <!doctype html>
 <html lang="pt-BR"><head><meta charset="utf-8"><meta name="viewport" content="width=device-width,initial-scale=1">
-<title>Case conceito — Reativação no varejo de moda · Eddi Kochi</title>
+<title>Case conceito — Reativação no varejo de moda · Edi Kochi</title>
 <meta name="description" content="Case conceito (proposta autoral): régua de reativação multicanal para varejo de moda, com copy por canal, plano de teste com holdout e playbook de IA para produção em escala.">
 <link rel="icon" href="../../favicon.svg" type="image/svg+xml">
 <meta name="theme-color" content="#11110f">
 <link rel="canonical" href="https://eddikochi.github.io/portfolio/work/crm-varejo/">
 <meta property="og:type" content="article">
-<meta property="og:title" content="Case conceito — Reativação no varejo de moda · Eddi Kochi">
+<meta property="og:title" content="Case conceito — Reativação no varejo de moda · Edi Kochi">
 <meta property="og:description" content="Proposta autoral: régua de reativação multicanal com plano de teste, holdout e playbook de IA.">
 <meta property="og:url" content="https://eddikochi.github.io/portfolio/work/crm-varejo/">
 <meta property="og:image" content="https://eddikochi.github.io/portfolio/img/og-image.png">

diff --git a/lang.html b/lang.html
@@ -3,9 +3,9 @@
 <head>
 <meta charset="UTF-8">
 <meta name="viewport" content="width=device-width, initial-scale=1.0">
-<title>Eddi Kochi — Portfolio</title>
-<meta name="description" content="Eddi Kochi — Digital Experience · UX, CRO, CRM, Data & Governance">
-<meta name="author" content="Eddi Kochi">
+<title>Edi Kochi — Portfolio</title>
+<meta name="description" content="Edi Kochi — Digital Experience · UX, CRO, CRM, Data & Governance">
+<meta name="author" content="Edi Kochi">
 <meta name="theme-color" content="#0E0D0C">
 <link rel="icon" href="favicon.svg" type="image/svg+xml">
 <link rel="apple-touch-icon" href="favicon.svg">
@@ -207,7 +207,7 @@
 <div class="content">
   <a href="index.html" class="brand">
     <img src="favicon.svg" alt="" width="22" height="22">
-    Eddi&nbsp;Kochi
+    Edi&nbsp;Kochi
   </a>
 
   <span class="label">Portfolio · Choose your language</span>
